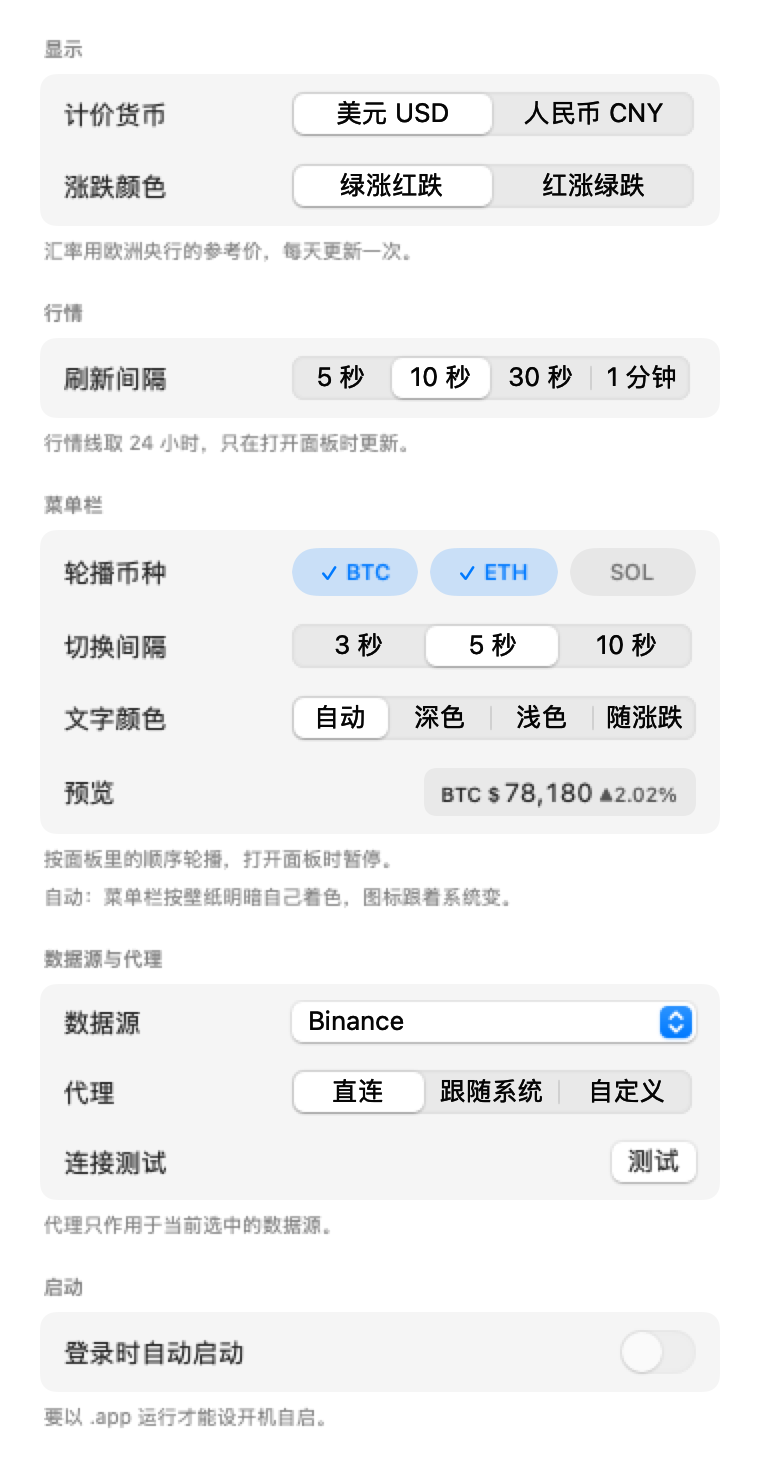
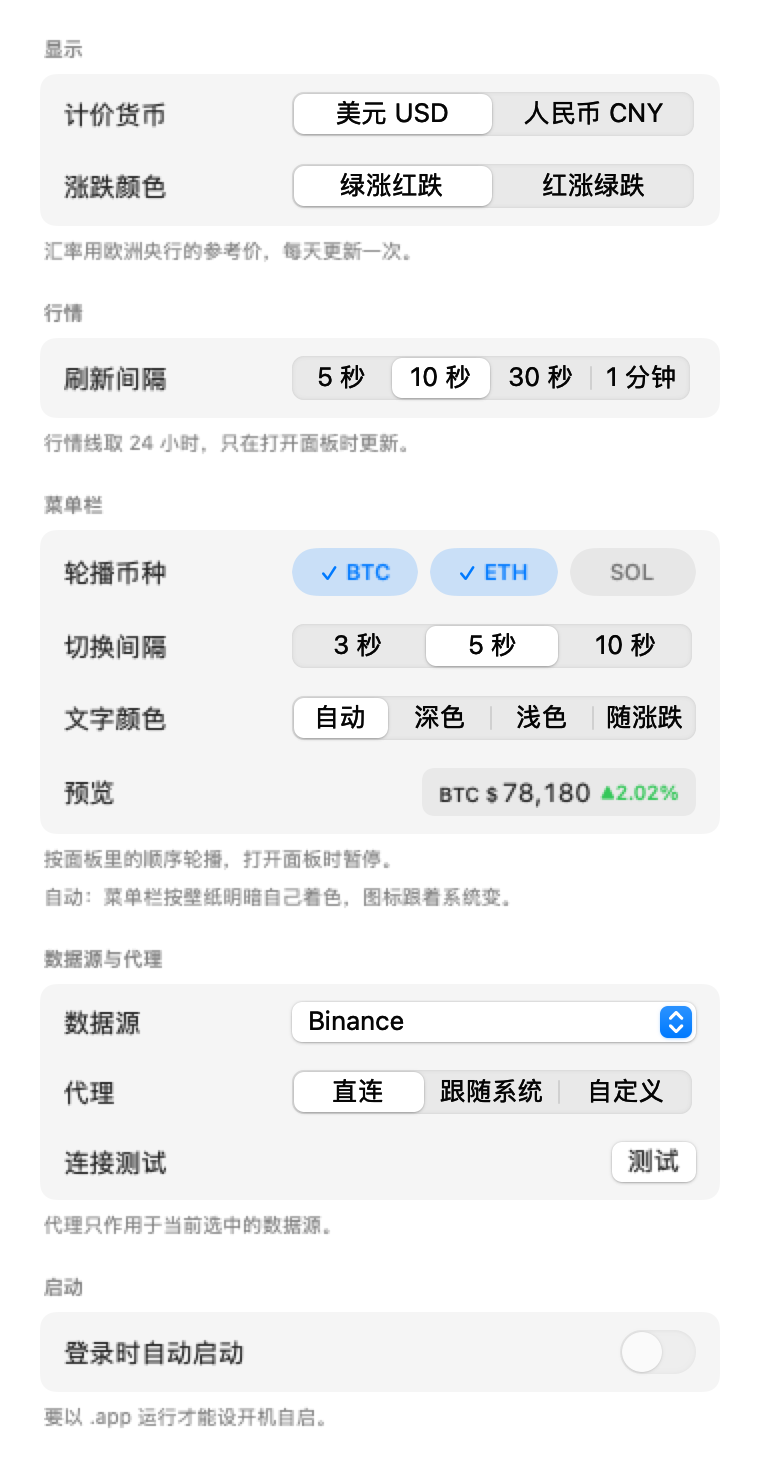
菜单栏涨跌幅恒按涨跌显示红绿
文字颜色那四档只管币种编码和价格，涨跌幅不受影响。

做法不是特判，是画法决定的：币种和价格画成一张图片（图片只有一个颜色，
template 时连颜色都交给系统），涨跌幅改成这张图片后面的标题
（NSStatusItem.button.attributedTitle），颜色由我们自己给。于是
"价格听选项的、涨跌幅听涨跌的"自然成立，四种组合都不用分支。

顺带三处间距：
- 涨跌幅作为标题接在图片后面，靠 imagePosition = .imageLeading 加
  alignment = .left 才贴住价格，右对齐会把它顶到图标项最右边
- 标题宽度按 ▲00.00% 这种最宽的样本固定，差额用透明 hair space 补齐，
  否则一个币显示 ▲2%、下一个 ▲1.73%，旁边的图标跟着挪
- 面板里箭头和百分比之间改用细空格

diff --git a/Sources/PriceBar/MenuBarPrice.swift b/Sources/PriceBar/MenuBarPrice.swift
@@ -25,9 +25,11 @@ enum MenuBarPrice {
         /// The 24h change after the price, arrow and all: "▲2.02%". Empty when
         /// there is none to show.
         let change: String
+        /// The same change as a number, which is what picks its colour.
+        let changeValue: Double
     }
 
-    /// The colour to draw in, or nil to keep the template.
+    /// The colour of the coin and the price, or nil to keep the template.
     ///
     /// A template image takes the menu bar's tint and inverts with light and
     /// dark by itself, which is what "自动" means. A colour of its own gives
@@ -35,9 +37,12 @@ enum MenuBarPrice {
     /// while the system says dark, or the other way round.
     ///
     /// "随涨跌" reads the change and takes the panel's own green or red, so
-    /// that the number in the menu bar and the number in the panel cannot
+    /// that the price in the menu bar and the number in the panel cannot
     /// disagree. A change with no side of its own — one that prints as
     /// "0.00%" — goes back to the template, since there is nothing to colour.
+    ///
+    /// This colour covers the coin and the price only. The change after them
+    /// is coloured by direction whatever is chosen here — see `changeColour`.
     static func tint(_ choice: MenuBarTint, change: Double, colors: ChangeColors) -> NSColor? {
         switch choice {
         case .automatic: return nil
@@ -49,9 +54,25 @@ enum MenuBarPrice {
         }
     }
 
+    /// The colour of the change, which is by direction and nothing else.
+    ///
+    /// The choice above says how the coin and the price should sit on the
+    /// wallpaper; it has no say here. Green up and red down is the one thing
+    /// in the label that carries meaning, and a menu bar that coloured it
+    /// black would lose that reading for the sake of consistency.
+    static func changeColour(_ change: Double, colors: ChangeColors) -> NSColor {
+        guard let green = colors.isGreen(change) else { return .secondaryLabelColor }
+        return green ? .systemGreen : .systemRed
+    }
+
     /// U+2009. The separator between the currency and the number.
     private static let thinSpace = "\u{2009}"
 
+    /// The coin, the currency and the price — the part this file draws.
+    ///
+    /// The change is not in here. It is set as the item's title instead, so
+    /// that the menu bar colours it and the price beside it separately: the
+    /// price follows the choice above, the change is always green or red.
     static func attributed(_ label: Label, colour: NSColor = .black) -> NSAttributedString {
         let smallFont = NSFont.systemFont(ofSize: 10, weight: .medium)
         let digitsFont = NSFont.monospacedDigitSystemFont(ofSize: 13, weight: .regular)
@@ -71,22 +92,88 @@ enum MenuBarPrice {
             string: thinSpace + label.amount,
             attributes: [.font: digitsFont, .foregroundColor: colour]
         ))
-        if !label.change.isEmpty {
-            // A step lighter: the price is what the item is for, the change is
-            // a note on it. Template images keep the alpha they were drawn
-            // with, so this dims against the menu bar's own tint.
-            text.append(NSAttributedString(
-                string: " " + label.change,
-                attributes: [
-                    .font: smallFont,
-                    .foregroundColor: colour.withAlphaComponent(0.75),
-                ]
-            ))
-        }
         return text
     }
 
-    /// How wide this coin's label would be, drawn on its own.
+    /// The change as the item's title: the menu bar sets this text itself, in
+    /// the colour given here, so green and red survive any choice above.
+    ///
+    /// A change that prints as nothing still takes up its room, drawn in clear:
+    /// a title that vanishes would shrink the item by forty points and shift
+    /// every icon beside it.
+    ///
+    /// `slack` is the room the drawn price left unused, because every coin is
+    /// drawn on the widest label's width. It goes after the change, in clear,
+    /// so that the item keeps one width while the change still sits against
+    /// the price: a gap in the middle of the label would read as two labels.
+    static func changeTitle(
+        _ label: Label,
+        colors: ChangeColors,
+        slack: CGFloat = 0,
+        visible: Bool = true
+    ) -> NSAttributedString {
+        let font = NSFont.systemFont(ofSize: 10, weight: .medium)
+        let shown = label.change.isEmpty ? widthReserve(label.changeValue) : label.change
+        let colour: NSColor = if label.change.isEmpty || !visible {
+            .clear
+        } else {
+            changeColour(label.changeValue, colors: colors)
+        }
+        // No space before the change: the item leaves a fixed gap between the
+        // image and the title, and a space on top of it would grow that gap
+        // with the font rather than keep it the same for every coin.
+        let text = NSMutableAttributedString(
+            string: shown,
+            attributes: [.font: font, .foregroundColor: colour]
+        )
+        // The change is a title, and a title that grows and shrinks would move
+        // every icon beside the item: one coin's "▲1.73%" against another's
+        // "▲2%". So it is always measured against a full-width sample and the
+        // difference held in clear hair spaces, which take no ink.
+        pad(text, to: changeWidth(label.changeValue), font: font)
+        // `slack` is the room the drawn price left unused, since every coin is
+        // drawn at its own width. It goes after the change, in clear, so that
+        // the item keeps one width while the change still sits against the
+        // price: the gap belongs at the far edge, not in the middle of the
+        // label.
+        pad(text, to: text.size().width + slack, font: font)
+        return text
+    }
+
+    /// The room the change takes as the item's title, the same for every coin:
+    /// the wider of a full-width sample and whatever this one prints.
+    static func changeWidth(_ change: Double) -> CGFloat {
+        let font = NSFont.systemFont(ofSize: 10, weight: .medium)
+        return ceil(widthReserve(change).size(withAttributes: [.font: font]).width)
+    }
+
+    /// U+200A, the narrowest space the system font has: it lets the room above
+    /// be filled in steps small enough to disappear.
+    private static let hairSpace: CGFloat = 0.8
+
+    /// Fills `text` with clear hair spaces until it is `target` wide.
+    private static func pad(_ text: NSMutableAttributedString, to target: CGFloat, font: NSFont) {
+        var width = text.size().width
+        guard target > width else { return }
+        let spaces = Int(ceil((target - width) / hairSpace))
+        text.append(NSAttributedString(
+            string: String(repeating: "\u{200A}", count: spaces),
+            attributes: [.font: font, .foregroundColor: NSColor.clear]
+        ))
+        // Hair spaces overshoot by up to one space; a kern pulls the last one
+        // back so the item's width lands on the point rather than past it.
+        width = text.size().width
+        let over = width - target
+        if over > 0 {
+            text.addAttribute(
+                .kern,
+                value: -over,
+                range: NSRange(location: text.length - 1, length: 1)
+            )
+        }
+    }
+
+    /// How wide the drawn part of this coin's label would be, on its own.
     static func width(of label: Label) -> CGFloat {
         ceil(attributed(label).size().width)
     }
@@ -96,6 +183,10 @@ enum MenuBarPrice {
     /// A change that rounds to nothing prints as nothing, and a label that
     /// loses forty points the moment a coin crosses flat would shift every
     /// icon beside it. So an empty change is measured as if it were there.
+    ///
+    /// The title is not drawn here, so this width no longer feeds the image.
+    /// It measures the room the change takes as a title, which the panel's
+    /// preview and the item's own width are written against.
     static func widthReserve(_ change: Double) -> String {
         let text = formatArrowed(change)
         return text.isEmpty ? "▲00.00%" : text
@@ -154,7 +245,8 @@ enum MenuBarPrice {
             coin: quote.coin,
             symbol: store.currency.symbol,
             amount: store.amount(quote.price),
-            change: formatArrowed(quote.change)
+            change: formatArrowed(quote.change),
+            changeValue: quote.change
         )
     }
 
@@ -168,7 +260,13 @@ enum MenuBarPrice {
 
     @MainActor static func image(for store: Store) -> NSImage? {
         guard let label = label(for: store) else { return nil }
-        return image(label, width: store.menuBarWidth, tint: tint(for: store))
+        return image(label, width: width(of: label), tint: tint(for: store))
+    }
+
+    /// The change the item is showing now, ready to be its title.
+    @MainActor static func changeTitle(for store: Store) -> NSAttributedString {
+        guard let label = label(for: store) else { return NSAttributedString(string: "") }
+        return changeTitle(label, colors: store.changeColors, slack: store.menuBarSlack)
     }
 
     /// Half a point of headroom on the left: the glyphs of a font's bounding

diff --git a/Sources/PriceBar/StatusItem.swift b/Sources/PriceBar/StatusItem.swift
@@ -22,6 +22,10 @@ final class StatusItem: NSObject, NSPopoverDelegate {
     /// What the item is showing now, so that a change of coin can be told
     /// from a change of price.
     private var showing: MenuBarPrice.Label?
+    /// The change as the item's title. The menu bar draws a title itself, in
+    /// its own font and the colour it is given, which is how the change keeps
+    /// its green or red while the price beside it takes the chosen colour.
+    private var title: NSAttributedString? { MenuBarPrice.changeTitle(for: store) }
 
     /// The colour the label is drawn in, or nil to keep it a template image
     /// and let the menu bar tint it.
@@ -36,8 +40,9 @@ final class StatusItem: NSObject, NSPopoverDelegate {
         button?.target = self
         button?.action = #selector(clicked)
         button?.sendAction(on: [.leftMouseUp, .rightMouseUp])
-        button?.imagePosition = .imageOnly
+        button?.imagePosition = .imageLeading
         button?.imageScaling = .scaleNone
+        button?.alignment = .left
 
         let hosting = NSHostingController(rootView: PanelView(store: store))
         hosting.sizingOptions = [.preferredContentSize]
@@ -65,9 +70,12 @@ final class StatusItem: NSObject, NSPopoverDelegate {
         }
 
         item.button?.title = ""
-        item.button?.setAccessibilityLabel("\(label.coin) \(label.symbol)\(label.amount)")
+        item.button?.setAccessibilityLabel(store.menuBarReading)
 
-        let width = store.menuBarWidth
+        // The image is drawn at the label's own width; the room the widest
+        // coin needs is added to the title instead, so the item keeps one
+        // width without a gap opening in the middle of it.
+        let width = MenuBarPrice.width(of: label)
         let previous = showing
         showing = label
 
@@ -80,6 +88,7 @@ final class StatusItem: NSObject, NSPopoverDelegate {
             scroll?.invalidate()
             scroll = nil
             item.button?.image = MenuBarPrice.image(label, width: width, tint: tint)
+            item.button?.attributedTitle = title ?? NSAttributedString(string: "")
             return
         }
         roll(from: previous, to: label, width: width)
@@ -117,13 +126,24 @@ final class StatusItem: NSObject, NSPopoverDelegate {
             scroll?.invalidate()
             scroll = nil
             item.button?.image = MenuBarPrice.image(new, width: width, tint: tint)
+            item.button?.attributedTitle = title ?? NSAttributedString(string: "")
             return
         }
         let eased = 1 - pow(1 - elapsed, 3)
+        // The change is a title beside the drawn price, so it cannot take part
+        // in the scroll: the price rolls, and the change arrives with the new
+        // coin on the last frame. Its room is held meanwhile, in clear, or the
+        // item would narrow for the length of the roll.
+        item.button?.attributedTitle = MenuBarPrice.changeTitle(
+            new,
+            colors: store.changeColors,
+            slack: max(0, store.menuBarWidth - width),
+            visible: false
+        )
         item.button?.image = MenuBarPrice.scrolling(
             from: old,
             to: new,
-            width: width,
+            width: max(width, MenuBarPrice.width(of: old)),
             progress: CGFloat(eased),
             tint: tint
         )

diff --git a/Sources/PriceBar/Store.swift b/Sources/PriceBar/Store.swift
@@ -166,16 +166,47 @@ final class Store {
     /// width while coins take turns. Read off the prices in hand; a coin whose
     /// price has not arrived is measured at the widest price it could have,
     /// which is the one already showing.
+    ///
+    /// This is the width of the drawn part alone. The change rides beside it
+    /// as the item's title and brings its own width with it, which is the same
+    /// for every coin, since an empty change is still reserved at full size.
     var menuBarWidth: CGFloat {
         let labels = menuBarQuotes.map { quote in
             MenuBarPrice.width(of: MenuBarPrice.Label(
                 coin: quote.coin,
                 symbol: currency.symbol,
                 amount: amount(quote.price),
-                change: MenuBarPrice.widthReserve(quote.change)
+                change: MenuBarPrice.widthReserve(quote.change),
+                changeValue: quote.change
             ))
         }
         return labels.max() ?? 0
+    }
+
+    /// How much room the drawn price leaves unused this second.
+    ///
+    /// The item is as wide as the widest coin on its list, so a narrower price
+    /// would otherwise leave its change stranded to the right. The change
+    /// takes that room back as clear space after itself, which keeps the item
+    /// one width and the change against the price at the same time.
+    var menuBarSlack: CGFloat {
+        guard let quote = menuBarQuote else { return 0 }
+        let drawn = MenuBarPrice.width(of: MenuBarPrice.Label(
+            coin: quote.coin,
+            symbol: currency.symbol,
+            amount: amount(quote.price),
+            change: "",
+            changeValue: quote.change
+        ))
+        return max(0, menuBarWidth - drawn)
+    }
+
+    /// The whole label as it will read in the menu bar, price and change
+    /// together: what the settings page previews and a screen reader says.
+    var menuBarReading: String {
+        guard let quote = menuBarQuote else { return "" }
+        return "\(quote.coin) \(currency.symbol)\(amount(quote.price)) \(formatArrowed(quote.change))"
+            .trimmingCharacters(in: .whitespaces)
     }
 
     /// How the panel's footer names what the menu bar is doing.

diff --git a/Sources/PriceBar/SettingsView.swift b/Sources/PriceBar/SettingsView.swift
@@ -278,11 +278,16 @@ struct SettingsView: View {
     /// turning at the interval chosen above: reading the numbers cannot tell
     /// you whether three seconds is too fast.
     private var preview: some View {
+        // The menu bar puts its own gap between the image and the title; here
+        // the two are separate views, so the gap has to be asked for.
         HStack(spacing: 4) {
             if let image = MenuBarPrice.image(for: store) {
                 Image(nsImage: image)
                     .renderingMode(MenuBarPrice.tint(for: store) == nil ? .template : .original)
                     .foregroundStyle(.primary)
+                // The change is a title in the menu bar, coloured by direction
+                // alone, so it is shown beside the image rather than in it.
+                Text(AttributedString(MenuBarPrice.changeTitle(for: store)))
             } else {
                 Text("—")
                     .font(.system(size: 12))

diff --git a/docs/index.html b/docs/index.html
@@ -493,7 +493,8 @@
         <p style="font-size:14.5px;color:var(--muted);line-height:1.75;margin:0 0 14px">
           菜单栏那一组里勾选要轮播的币种，选间隔，下面就是实时的预览行——
           按当前的间隔真的在轮播，快慢一眼看得出。文字颜色四档：自动跟着系统，
-          自己指定深浅，或者让它随涨跌变色——绿涨红跌，和面板里那个百分比一致。
+          自己指定深浅，或者让它随涨跌变色。四档只管币种和价格——
+          后面那个涨跌幅不管选哪一档，都按涨跌显示红绿。
         </p>
         <p style="font-size:14.5px;color:var(--muted);line-height:1.75;margin:0">
           换数据源或代理之前可以先「测试」：它会告诉你连没连上、用了多少毫秒、

diff --git a/README.md b/README.md
@@ -106,12 +106,21 @@ app 不知道你从哪儿来，就让你自己选。默认绿涨红跌。
 
 价格后面跟着 24 小时涨跌幅，`▲2.02%` / `▼0.31%`。三个取舍：
 
-- **箭头不依赖颜色**：选「随涨跌」时整条标签已经按方向着色，但箭头仍然留着——色觉障碍
-  的人读得到方向，涨跌幅归零时也没有颜色可依。写法与面板里的 `▲ +2.02%` 一致。
-- **小一号、淡一档**：价格是这一项的正事，涨跌幅是它的注记。和价格同大就成了两个数字在争。
+- **箭头不依赖颜色**：色觉障碍的人读得到方向，涨跌幅归零时也没有颜色可依。
+  写法与面板里的 `▲ +2.02%` 一致。
+- **小一号**：价格是这一项的正事，涨跌幅是它的注记。和价格同大就成了两个数字在争。
 - **归零时不画箭头**：涨跌幅四舍五入到 `0.00%` 时只留空，一个指向虚无的箭头比没有更糟。
   但宽度仍按涨跌幅预留（`MenuBarPrice.widthReserve`），否则币种一贴近零点，
   菜单栏图标就缩四十来点，旁边的图标全跟着挪。
+
+**涨跌幅永远是红绿，不受文字颜色那四档影响。** 四档只管币种编码和价格两部分。
+
+这不是靠判断拼出来的，是画法决定的：币种和价格画成一张图片（图片只能有一个颜色，
+template 时连颜色都交给系统），涨跌幅是这张图片后面的**标题**（`NSStatusItem.button.attributedTitle`），
+颜色由我们自己给。于是「价格听选项的、涨跌幅听涨跌的」自然成立，四种组合都不用特判。
+
+标题的宽度按 `▲00.00%` 这种最宽的样本固定住，涨跌幅本身靠透明 hair space 补齐——
+标题是会撑宽图标项的东西，一个币显示 `▲2%`、下一个显示 `▲1.73%`，旁边的图标就跟着挪。
 
 ## 关于菜单栏的文字颜色
 
@@ -122,8 +131,10 @@ app 不知道你从哪儿来，就让你自己选。默认绿涨红跌。
 
 - **自动**（默认）：画成 template image，交给菜单栏着色，亮暗模式切换时跟着变。
 - **深色 / 浅色**：自己指定，图片不再是 template，代价是不再随系统明暗自动反转。
-- **随涨跌**：整条按 24 小时涨跌方向着色，跟随「涨跌颜色」这一项，与面板里的百分比同色。
+- **随涨跌**：币种和价格按 24 小时涨跌方向着色，跟随「涨跌颜色」这一项，与面板里的百分比同色。
   涨跌幅正好为 0 时没有方向，退回自动。
+
+四档都**只作用于币种编码和价格**。价格后面的涨跌幅无论选哪一档，都按涨跌显示红绿。
 
 深色是黑色的同义词，浅色是白色——它们说的是文字本身，不是背景。
 
@@ -139,6 +150,9 @@ app 不知道你从哪儿来，就让你自己选。默认绿涨红跌。
 
 符号与数字之间用的是**细空格**（U+2009，1.75pt），不是普通空格。普通空格在 13pt 的等宽数字
 字号下宽 3.58pt，加上 `$` 自己的右边距，读起来不像「一个金额」，像两个东西挨在一起。
+
+涨跌幅作为标题接在图片后面，靠 `imagePosition = .imageLeading` 加 `alignment = .left` 才贴住
+价格——右对齐会把它顶到图标项的最右边，中间空出一大块。
 
 ## 关于面板的间距
 
